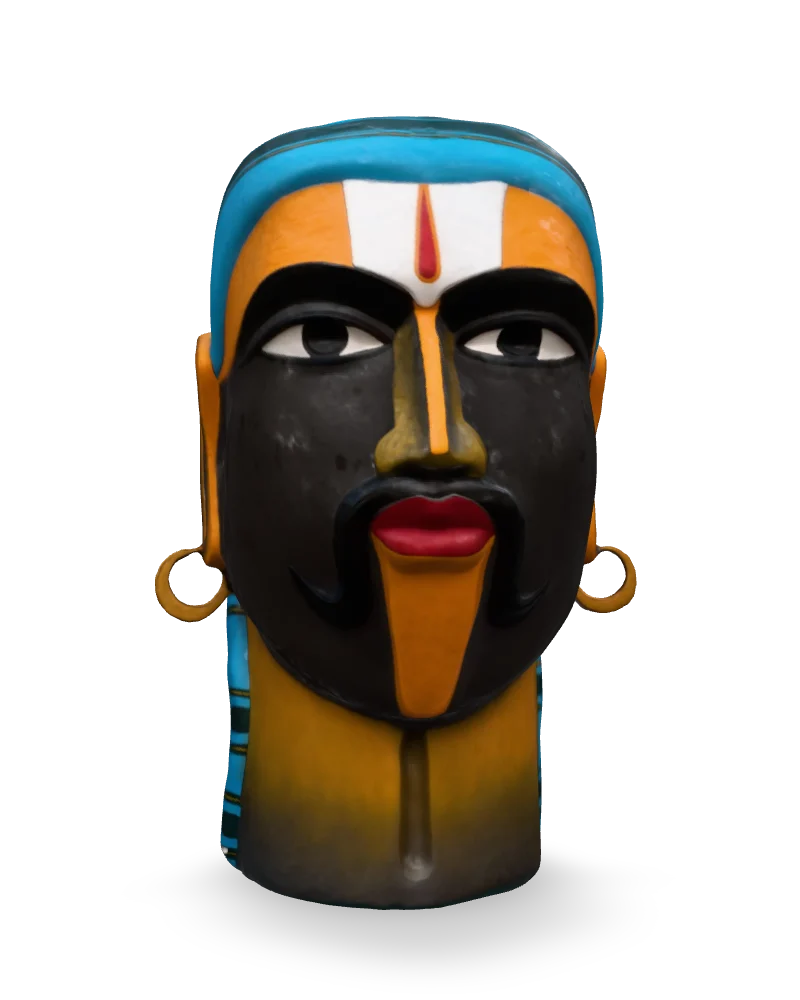
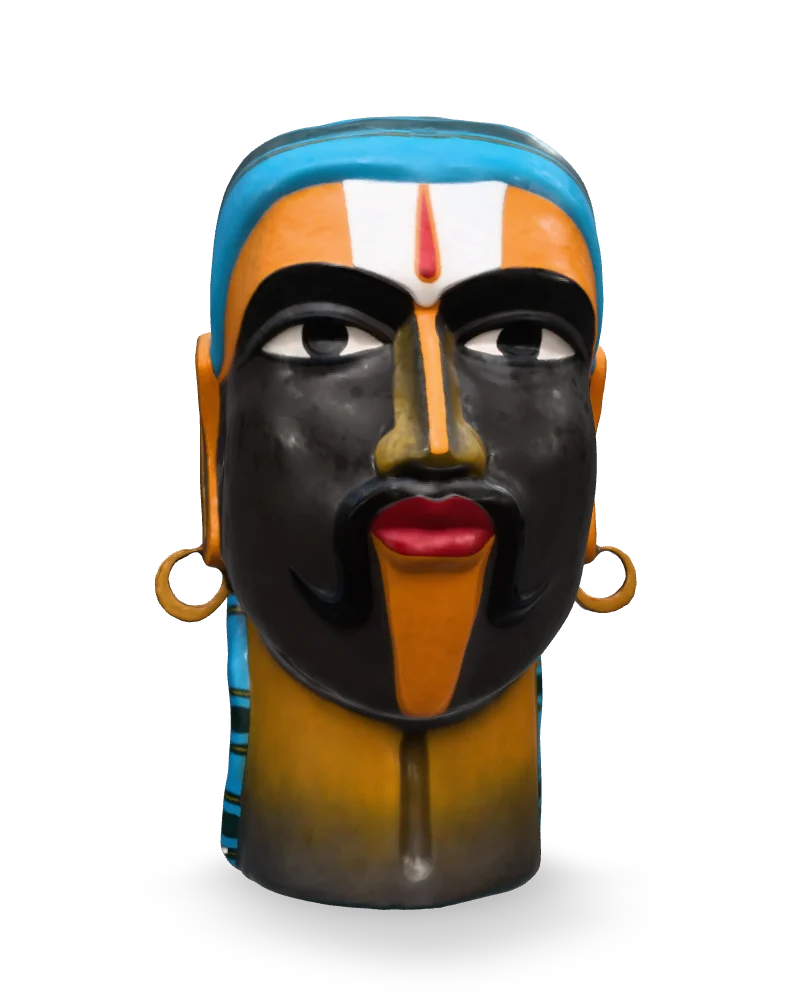
Re-render three thumbnails that no longer matched their looks
All 49 3D works were re-rendered; only Adhikari Dada Drum Walae, Bronze
Female Head with Long Hair and Male Head with Blue Turban came out
different (slightly brighter, as the current lighting renders them).
?v= bumped.

diff --git a/lib/sculptures.ts b/lib/sculptures.ts
@@ -553,7 +553,7 @@ export const sculptures: Sculpture[] = [
     longDescription:
       "A drummer stands on a shaped, flat base, his head bowed towards the drum that hangs at his left hip. He holds a stick in each hand: one is raised, the other is held just above the pale drumhead. The drum itself is a deep cylinder in gold-brown, its side crossed by diagonal cords in a zigzag pattern.\n\nHe wears an orange-red cap and matching orange-red trousers, loose and creased down to the ankles. His jacket is a muted grey-green with epaulettes on both shoulders, a breast pocket, a row of buttons and a strap running diagonally across his chest to the drum. The bearded face, the hands, cuffs and shoes are left in the brown of the bronze. The modelling is rough and broken into small planes, especially across the jacket and the folds of the trousers.\n\nThe title names Adhikari Dada, and \"Drum Walae\" reads as \"the one with the drum\". The bronze measures 12 × 5 × 5 inches and is cast 3 of an edition of 9. The base is an irregular, rounded slab, wider on one side, and the trousers bunch above his shoes.",
     artistSlug: "krishen-khanna",
-    thumbnail: "/thumbnails/khanna-adhikari-dada-drum-walae.webp?v=5",
+    thumbnail: "/thumbnails/khanna-adhikari-dada-drum-walae.webp?v=6",
     modelUrl: "/sculptures/khanna-adhikari-dada-drum-walae.glb",
     look: { metalness: 0.21, roughness: 0.5, reflections: 0.6, sideLights: 0.4 },
     facing: 300,
@@ -837,7 +837,7 @@ export const sculptures: Sculpture[] = [
     longDescription:
       "Listed in its source as Untitled (Male Head, blue turban, moustache), this fibreglass head by Thota Vaikuntam is dated 2025 and measures 97 × 50 × 72 inches, about two and a half metres tall.\n\nThe face is black. A light blue turban wraps the top of the head, and beneath it a white band on the forehead carries a narrow red vertical mark at the centre, with orange to either side. Thick black brows curve over wide almond-shaped eyes, white with dark pupils. Full red lips sit under a heavy black moustache whose ends curl down along the jaw on both sides, and an orange triangle runs from the lower lip to the chin. Large gold-coloured hoop earrings hang from the orange ears.\n\nThe neck is orange shading to dark, with a vertical line down its front, and strips of blue striped cloth show at either side of it. The orange of the nose, chin and neck forms a single vertical line down the centre of the face, crossed by the white forehead band and the red mouth, much like the bold reds, saffrons and oranges of Thota's paintings.",
     artistSlug: "thota-vaikuntam",
-    thumbnail: "/thumbnails/thota-male-head-with-blue-turban.webp?v=6",
+    thumbnail: "/thumbnails/thota-male-head-with-blue-turban.webp?v=7",
     modelUrl: "/sculptures/thota-untitled-head-with-turban.glb",
     look: { metalness: 0.15, roughness: 2.29, reflections: 1.2, light: 1.3, sideLights: 1, specular: 0.6 },
     material: "Fiberglass",
@@ -857,7 +857,7 @@ export const sculptures: Sculpture[] = [
     longDescription:
       "Long black hair falls down one side of this bronze head, sweeping past the neck to the base. Listed in its source as Untitled (Female Head, bronze with long hair), the work by Thota Vaikuntam measures 58 × 58 × 47 inches, almost one and a half metres tall.\n\nThe face is brown, smooth and broad. An orange-yellow band crosses the forehead beneath black hair parted at the centre, with small gold-coloured ornaments at the hairline on either side, and a round red bindi sits at its centre. The orange-yellow continues as a narrow strip down the ridge of the nose. The eyes are almond-shaped under heavy lids, and the full lips are a strong red. A gold-coloured nose ring hangs from one nostril, and long, thin gold-coloured earrings follow the line of the ears.\n\nAt the neck, a thick gold-coloured ring sits above a green collar marked with small dark dots. On the side where the hair falls, its black mass is marked with long flowing lines and widens as it reaches the base. The bindi recalls the large vermilion bindis of the women in Thota's paintings.",
     artistSlug: "thota-vaikuntam",
-    thumbnail: "/thumbnails/thota-bronze-female-head-with-long-hair.webp?v=4",
+    thumbnail: "/thumbnails/thota-bronze-female-head-with-long-hair.webp?v=5",
     modelUrl: "/sculptures/thota-untitled-head-with-nose-ring.glb",
     look: { metalness: 0.2, roughness: 1.8, reflections: 0.6 },
     material: "Bronze",
